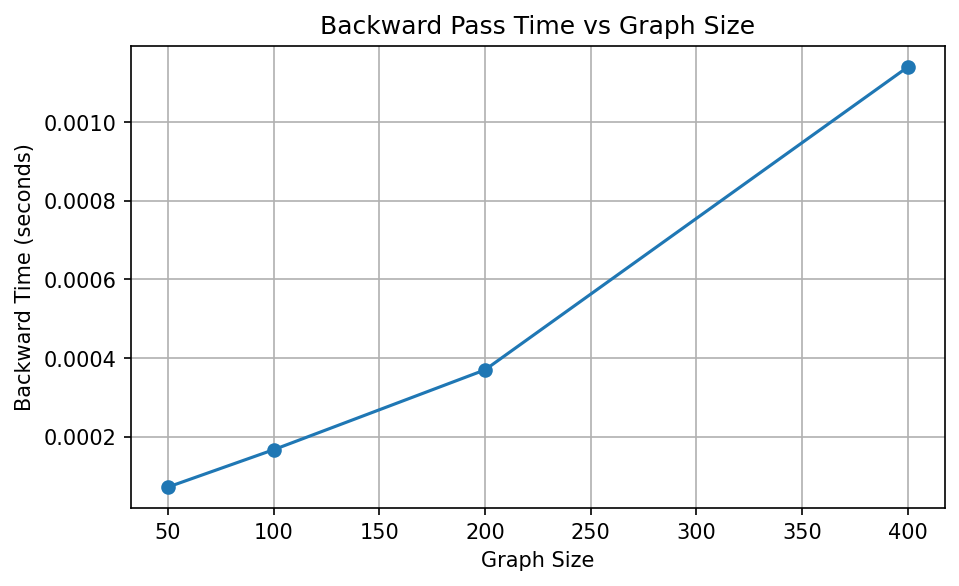
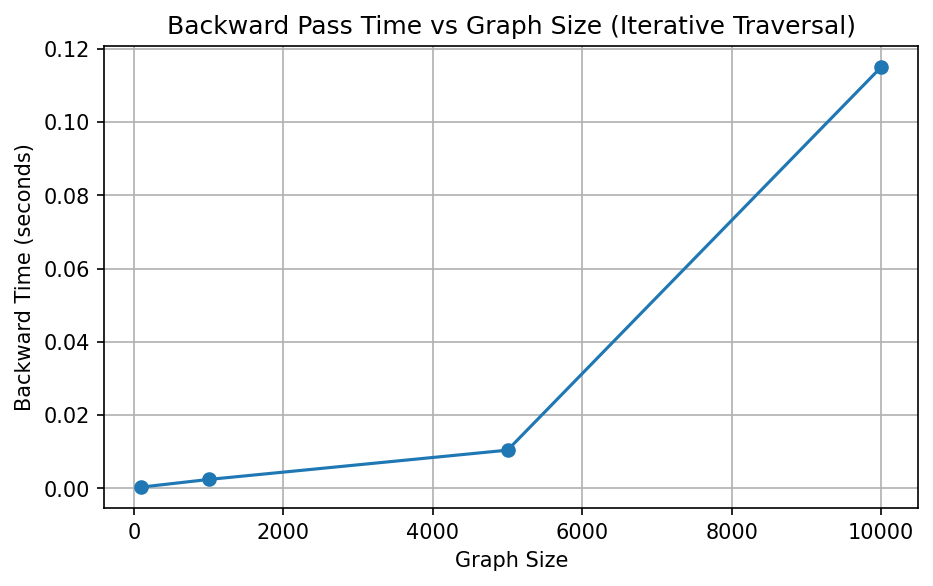
Update benchmark graph for iterative backward

diff --git a/scripts/plot_benchmark.py b/scripts/plot_benchmark.py
@@ -1,13 +1,13 @@
 import matplotlib.pyplot as plt
 
-graph_sizes = [50, 100, 200, 400]
-backward_times = [0.000072, 0.000167, 0.000370, 0.001140]
+graph_sizes = [100, 1000, 5000, 10000]
+backward_times = [0.000323, 0.002406, 0.010410, 0.115016]
 
 plt.figure(figsize=(7, 4))
 plt.plot(graph_sizes, backward_times, marker="o")
 plt.xlabel("Graph Size")
 plt.ylabel("Backward Time (seconds)")
-plt.title("Backward Pass Time vs Graph Size")
+plt.title("Backward Pass Time vs Graph Size (Iterative Traversal)")
 plt.grid(True)
 
 plt.savefig("results/backward_benchmark.png", dpi=150, bbox_inches="tight")
